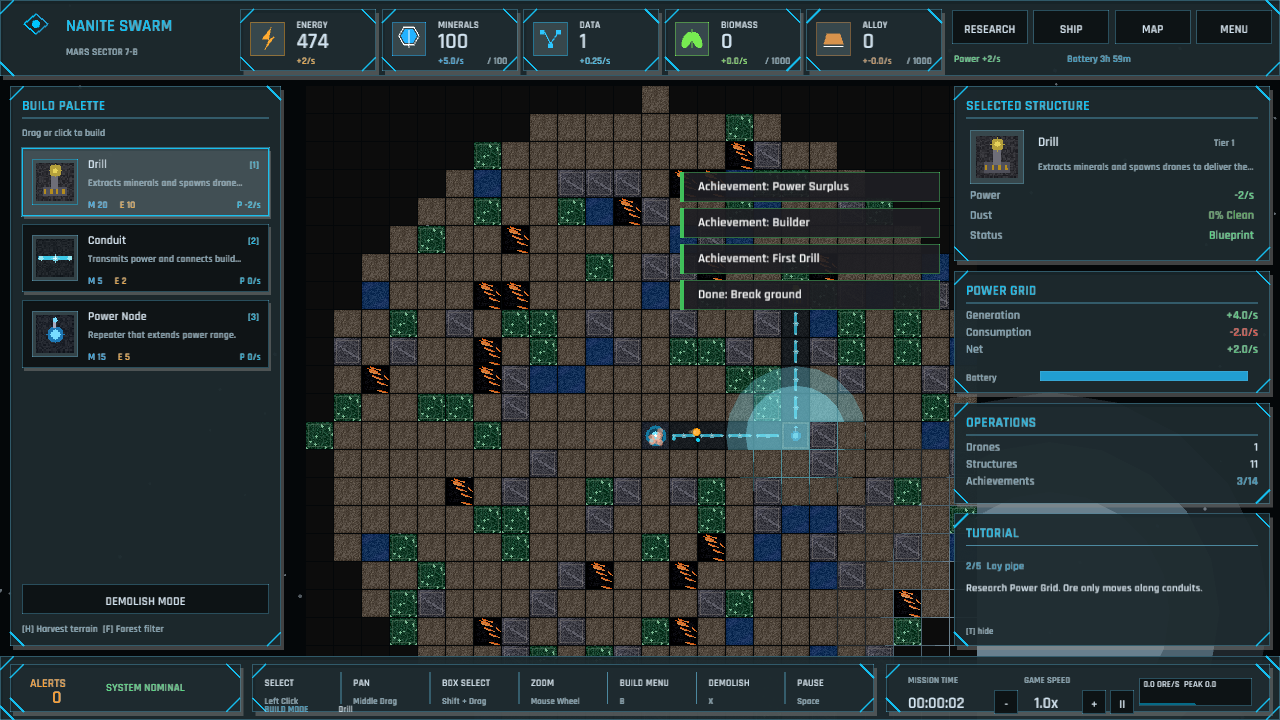
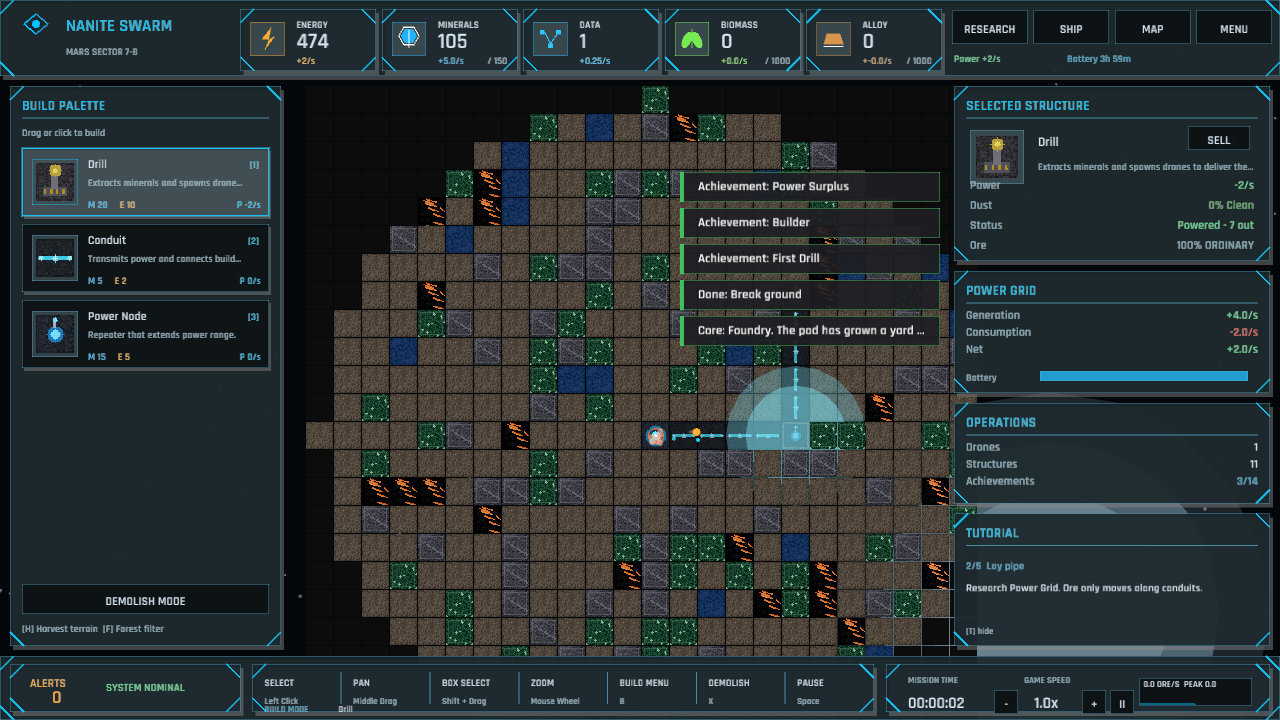
Where a drill goes finally matters (ore richness, depleting only its bonus)
Every drill cut the same rate out of any tile, so the only spatial question
was how long the run home was. Ground now carries a richness rolled from the
same seeded stream as the terrain: deposits worth up to twice ordinary ground,
lean patches worth half, and a drill cuts at whatever it is standing on.

Only the bonus depletes, and only for ore actually cut - a pad that was full
is not charged for what the drill could not take. A deposit is worn down to
ordinary ground and stops there, which keeps prospecting worth doing without
turning an idle game into a relocation treadmill; the reasoning is written
into gdd.md §3.

The inspector grew a fourth row so the ground can be read before it is built
on. The map still cannot show it, which is the next thing this needs.

diff --git a/src/state/logistics.rs b/src/state/logistics.rs
@@ -310,20 +310,40 @@ impl PlanetState {
     fn update_drills(&mut self, delta_time: f32) {
         let rate = self.drill_output_rate();
         let ceiling = self.drones.drone_capacity * PAD_LOADS;
+        let depletion = self.config.ore.depletion_per_unit.max(0.0);
 
         for drill_pos in self.grid.find_buildings(BuildingType::Drill) {
-            let Some(building) = self.grid.get(drill_pos).and_then(|t| t.building.as_ref()) else {
+            let Some(tile) = self.grid.get(drill_pos) else {
+                continue;
+            };
+            let Some(building) = tile.building.as_ref() else {
                 continue;
             };
             if !building.powered || building.is_dust_stalled() {
                 continue;
             }
+            // What the ground under this particular drill is worth. Placement
+            // is a spatial decision, not only a question of run length.
+            let richness = tile.ore_richness;
             let efficiency = building.dust_efficiency();
+            let cut = rate * richness * efficiency * delta_time;
+
             let buffer = self
                 .output_buffers
                 .entry((drill_pos.x, drill_pos.y))
                 .or_insert(0.0);
-            *buffer = (*buffer + rate * efficiency * delta_time).min(ceiling);
+            let before = *buffer;
+            *buffer = (before + cut).min(ceiling);
+
+            // Only the bonus is spent: a deposit is cut down towards ordinary
+            // ground and stops there (gdd.md §3). What the pad could not hold
+            // was never cut, so it is not charged for either.
+            if richness > 1.0 && depletion > 0.0 {
+                let taken = *buffer - before;
+                if let Some(tile) = self.grid.get_mut(drill_pos) {
+                    tile.ore_richness = (richness - taken * depletion).max(1.0);
+                }
+            }
         }
     }
 
@@ -534,10 +554,90 @@ mod tests {
         (state.resources.minerals / state.drones.drone_capacity).round() as u32
     }
 
+    /// Ore banked, rather than whole loads. Rounding to loads is too coarse to
+    /// see a difference that is a few seconds of drone speed.
+    fn ore_delivered(state: &mut PlanetState, seconds: f32) -> u32 {
+        state.resources.minerals = 0.0;
+        state.config.resources.base_mineral_cap = 100_000.0;
+
+        let ticks = (seconds / crate::state::TICK_SECONDS) as u32;
+        for _ in 0..ticks {
+            state.step(crate::state::TICK_SECONDS, false);
+        }
+        state.resources.minerals.round() as u32
+    }
+
     /// Snapshot of the whole harvest loop at the fixed timestep: drill cycle,
     /// dispatch, travel out over the network, delivery, and the walk home. If
     /// the tick length, drone speed, drill cycle or route cost changes, this
     /// number moves.
+    #[test]
+    fn a_drill_on_a_deposit_cuts_more_than_one_on_ordinary_ground() {
+        /// Ore banked in ten seconds by a drill on ground of this richness.
+        fn banked(richness: f32) -> u32 {
+            let (mut state, _core, drill) = state_with_run(0);
+            state.grid.get_mut(drill).unwrap().ore_richness = richness;
+            ore_delivered(&mut state, 10.0)
+        }
+
+        let ordinary = banked(1.0);
+        assert!(banked(2.0) > ordinary, "a deposit was worth nothing");
+        assert!(banked(0.5) < ordinary, "lean ground was worth the same");
+    }
+
+    #[test]
+    fn a_deposit_is_cut_down_towards_ordinary_ground_and_stops_there() {
+        let (mut state, _core, drill) = state_with_run(0);
+        state.grid.get_mut(drill).unwrap().ore_richness = 2.0;
+        // A depletion rate that would run well past the floor if it could.
+        state.config.ore.depletion_per_unit = 0.05;
+
+        ore_delivered(&mut state, 120.0);
+
+        let left = state.grid.get(drill).unwrap().ore_richness;
+        assert_eq!(
+            left, 1.0,
+            "the deposit stopped somewhere other than ordinary ground"
+        );
+    }
+
+    #[test]
+    fn ordinary_ground_is_not_worn_out_by_being_worked() {
+        let (mut state, _core, drill) = state_with_run(0);
+        state.grid.get_mut(drill).unwrap().ore_richness = 1.0;
+        state.config.ore.depletion_per_unit = 0.05;
+
+        ore_delivered(&mut state, 120.0);
+
+        assert_eq!(state.grid.get(drill).unwrap().ore_richness, 1.0);
+    }
+
+    #[test]
+    fn a_pad_that_is_already_full_is_not_charged_for_ore_it_never_took() {
+        let (mut state, _core, drill) = state_with_run(0);
+        state.grid.get_mut(drill).unwrap().ore_richness = 2.0;
+        state.config.ore.depletion_per_unit = 0.01;
+        // Only the drills run, so nothing ever leaves the pad: it fills and
+        // the drill has to stop being charged for ore it cannot cut.
+        for _ in 0..600 {
+            state.update_drills(crate::state::TICK_SECONDS);
+        }
+
+        let left = state.grid.get(drill).unwrap().ore_richness;
+        let pad = state
+            .output_buffers
+            .get(&(drill.x, drill.y))
+            .copied()
+            .unwrap_or(0.0);
+        let taken = (2.0 - left) / 0.01;
+        assert!(
+            (taken - pad).abs() < 0.5,
+            "charged for {} ore with {} on the pad",
+            taken,
+            pad
+        );
+    }
+
     #[test]
     fn partial_loads_lift_what_a_long_run_actually_delivers() {
         /// Ore banked over a fixed stretch, with partial dispatch on or off.
@@ -869,15 +969,22 @@ mod tests {
     /// Two drills sharing one run, measured over a minute at a given tile
     /// capacity.
     fn shared_trunk_throughput(capacity: f32) -> u32 {
-        let (mut state, _core, drill) = state_with_run(4);
+        let (mut state, _core, drill) = state_with_run(8);
         state.config.buildings.conduit_capacity = capacity;
+        // Ordinary ground under both drills, so this measures the trunk and
+        // not which of them happened to land on a deposit.
+        for pos in [drill, GridPos::new(drill.x - 1, drill.y - 1)] {
+            if let Some(tile) = state.grid.get_mut(pos) {
+                tile.ore_richness = 1.0;
+            }
+        }
         // A second drill hanging off the same run.
         let spur = GridPos::new(drill.x - 1, drill.y - 1);
         state.grid.get_mut(spur).unwrap().terrain = crate::engine::TerrainType::Empty;
         state.select_building(BuildingType::Drill);
         assert!(state.try_place_building(spur));
         state.grid.update_power_grid();
-        loads_delivered(&mut state, 60.0)
+        ore_delivered(&mut state, 60.0)
     }
 
     #[test]

diff --git a/src/engine/grid_engine/grid.rs b/src/engine/grid_engine/grid.rs
@@ -13,6 +13,9 @@ use super::tile::Tile;
 
 type TerrainRng = SeededRng;
 
+use crate::data::OreConfig;
+use macroquad_toolkit::math::lerp;
+
 /// The game grid containing all tiles
 #[derive(Debug, Clone, Serialize, Deserialize)]
 pub struct Grid {
@@ -40,6 +43,17 @@ impl Grid {
     /// over is open ground, which is what makes one world a forest and another
     /// a field of holes.
     pub fn new_with_terrain(width: u32, height: u32, seed: u64, weights: &TerrainWeights) -> Self {
+        Self::generate(width, height, seed, weights, &OreConfig::default())
+    }
+
+    /// The same, with the ore spread declared rather than assumed.
+    pub fn generate(
+        width: u32,
+        height: u32,
+        seed: u64,
+        weights: &TerrainWeights,
+        ore: &OreConfig,
+    ) -> Self {
         let mut rng = TerrainRng::new(seed);
         let size = (width * height) as usize;
         let mut tiles = Vec::with_capacity(size);
@@ -78,6 +92,17 @@ impl Grid {
             // Reveal tiles near center
             let revealed = dist_from_center <= 4;
 
+            // Ore is rolled for every tile, from the same seeded stream as
+            // the terrain, so a world's ground is as reproducible as its shape.
+            let ore_roll = rng.next_f32();
+            let ore_richness = if ore_roll < ore.rich_chance {
+                lerp(ore.rich_min, ore.rich_max, rng.next_f32())
+            } else if ore_roll < ore.rich_chance + ore.lean_chance {
+                lerp(ore.lean_min, ore.lean_max, rng.next_f32())
+            } else {
+                1.0
+            };
+
             tiles.push(Tile {
                 terrain,
                 building: None,
@@ -86,6 +111,7 @@ impl Grid {
                 mountain_harvested: false,
                 forest_cleared: false,
                 biomass_amount: 0.0,
+                ore_richness,
             });
         }
 

diff --git a/src/screens/planetary_view/hud/inspector_panel.rs b/src/screens/planetary_view/hud/inspector_panel.rs
@@ -108,7 +108,9 @@ pub(super) fn draw(
         );
         draw_ui_text(&description, info_x, header_y + 40.0, 10.0, dim);
         let output = format_power_delta(building_type.power_delta());
-        let row_base = inspector_y + inspector_h - 62.0;
+        // Four rows now. They start higher than they did, but not so high as
+        // to run into the description above them.
+        let row_base = inspector_y + inspector_h - 72.0;
         draw_status_row(
             theme,
             right_x + 16.0,
@@ -128,6 +130,22 @@ pub(super) fn draw(
             &format!("{:.0}% {}", tile_dust, dust_label),
             dust_color,
         );
+
+        // What the ground itself is worth. Without this a deposit is invisible
+        // and drill placement is guesswork.
+        if let Some(tile) = display_pos.and_then(|pos| state.grid.get(pos)) {
+            let (ore_label, ore_color) = ore_status(tile.ore_richness, colors);
+            draw_status_row(
+                theme,
+                right_x + 16.0,
+                row_base + 60.0,
+                right_w - 32.0,
+                "Ore",
+                &format!("{:.0}% {}", tile.ore_richness * 100.0, ore_label),
+                ore_color,
+            );
+        }
+
         let mut status_text = if tile_building.is_some() {
             if tile_powered {
                 "Powered".to_string()
@@ -225,5 +243,16 @@ pub(super) fn draw(
                 dim,
             );
         }
+    }
+}
+
+/// How the ground under a tile reads: a deposit, ordinary, or poor.
+fn ore_status(richness: f32, colors: &PanelColors) -> (&'static str, Color) {
+    if richness > 1.05 {
+        ("DEPOSIT", colors.success)
+    } else if richness < 0.95 {
+        ("LEAN", colors.warning)
+    } else {
+        ("ORDINARY", colors.dim)
     }
 }

diff --git a/src/data/game_config.rs b/src/data/game_config.rs
@@ -10,6 +10,8 @@ pub struct GameConfig {
     pub buildings: BuildingConfig,
     #[serde(default = "CollapseConfig::default")]
     pub collapse: CollapseConfig,
+    #[serde(default = "OreConfig::default")]
+    pub ore: OreConfig,
 }
 
 #[derive(Debug, Clone, Serialize, Deserialize)]
@@ -67,6 +69,22 @@ pub struct CollapseConfig {
     pub notice_seconds: f32,
 }
 
+/// How ore is spread through the ground, and what happens to a rich patch as
+/// it is cut. Only the bonus above ordinary ground depletes (gdd.md §3).
+#[derive(Debug, Clone, Serialize, Deserialize)]
+pub struct OreConfig {
+    /// Share of ground that is a rich deposit, and how rich it can be.
+    pub rich_chance: f32,
+    pub rich_min: f32,
+    pub rich_max: f32,
+    /// Share that is poorer than ordinary, and how poor.
+    pub lean_chance: f32,
+    pub lean_min: f32,
+    pub lean_max: f32,
+    /// Richness lost per unit of ore cut out of the tile.
+    pub depletion_per_unit: f32,
+}
+
 #[derive(Debug, Clone, Serialize, Deserialize)]
 pub struct BuildingConfig {
     pub core_power_consumption: f32,
@@ -120,6 +138,21 @@ impl Default for GameConfig {
                 partial_load_min_share: 0.5,
             },
             collapse: CollapseConfig::default(),
+            ore: OreConfig::default(),
+        }
+    }
+}
+
+impl Default for OreConfig {
+    fn default() -> Self {
+        Self {
+            rich_chance: 0.18,
+            rich_min: 1.4,
+            rich_max: 2.2,
+            lean_chance: 0.22,
+            lean_min: 0.5,
+            lean_max: 0.8,
+            depletion_per_unit: 0.0004,
         }
     }
 }

diff --git a/src/engine/grid_engine/tile.rs b/src/engine/grid_engine/tile.rs
@@ -18,6 +18,17 @@ pub struct Tile {
     pub forest_cleared: bool, // Permanent pollution penalty
     #[serde(default)]
     pub biomass_amount: f32,
+    /// How much ore this ground gives compared to ordinary ground. Above one
+    /// is a deposit and is cut down towards one as it is worked; one and below
+    /// never change.
+    #[serde(default = "ordinary_ground")]
+    pub ore_richness: f32,
+}
+
+/// What a tile is worth with no deposit on it. Also the value an older save
+/// gets, which is why it is a named default rather than zero.
+fn ordinary_ground() -> f32 {
+    1.0
 }
 
 impl Default for Tile {
@@ -30,6 +41,7 @@ impl Default for Tile {
             mountain_harvested: false,
             forest_cleared: false,
             biomass_amount: 0.0,
+            ore_richness: ordinary_ground(),
         }
     }
 }

diff --git a/src/main.rs b/src/main.rs
@@ -523,6 +523,14 @@ impl Game {
             "logistics" => {
                 self.phase = GamePhase::Playing;
                 self.seed_logistics_scene();
+                // Select the drill's own tile, so the inspector is reading
+                // ground rather than a palette choice.
+                let planet = self.campaign.current_mut();
+                let drill = planet
+                    .grid
+                    .find_buildings(engine::BuildingType::Drill)
+                    .pop();
+                planet.selected_tile = drill;
             }
             // A Core that has grown past its landing pod.
             "core_stage" => {

diff --git a/src/state/game_state.rs b/src/state/game_state.rs
@@ -233,7 +233,7 @@ impl PlanetState {
     pub fn new(planet_index: usize, seed: u64, config: GameConfig) -> Self {
         let def = crate::data::game_data().planet(planet_index);
         let (name, width, height) = (def.name.as_str(), def.width, def.height);
-        let mut grid = Grid::new_with_terrain(width, height, seed, &def.terrain);
+        let mut grid = Grid::generate(width, height, seed, &def.terrain, &config.ore);
         grid.initialize_forest_biomass(config.resources.forest_biomass);
 
         // Place Core at center

diff --git a/TODO.md b/TODO.md
@@ -30,7 +30,7 @@ A network tile passes `conduit_capacity` drones at full speed; past that they sh
 - Routing weights tiles by traffic (`traffic_cost`, `congestion_route_penalty` in `game_config.json`), so a saturated trunk is worth going around and a second parallel run finally earns its minerals. Congestion makes a tile expensive, never impassable. What it does not do is look ahead: each drone routes against the traffic that exists *now*, so a wave dispatched in the same tick all picks the same clear run and creates the jam it was avoiding.
 - Re-validating every in-flight drone's remaining path each tick is O(drones x path length), and routing is now A* over the network rather than a plain BFS; add a network revision counter and re-check only when the grid changes if either shows up in profiling.
 - A cut run is outlined in red on the map for as long as anything is stalled: every piece of network with no way back to the Core, plus the piece that stopped carrying traffic and caused it, so a conduit choked with dust names itself. It stays quiet while nothing is stalled, because a run being laid outward is disconnected on purpose. It does not yet say the same thing for a *producer* that is standing on open ground with no pipe at all.
-- Add ore deposits with richness and depletion — every drill cuts the same `drill_output_rate` from any tile, so placement is spatially meaningless.
+- Ground carries an ore richness rolled at generation (`ore` in `game_config.json`): a drill cuts at its tile's rate, so where one goes is a spatial decision. Only the bonus above ordinary ground depletes, and only for ore actually cut (rationale in `gdd.md` §3). The inspector reads the ground out. What the *map* does not do is show it — a deposit is invisible until you point at it, so prospecting means sweeping the cursor over the whole world.
 - Bridges are real network pieces: a building that stands on void or water and nowhere else, transmitting power and carrying drones like a conduit, instead of a tile flag that gave a conduit permission to exist. The GDD's Venus gaps are now a routing problem. Two things remain — a bridge on a void tile reads as barely more than the void it spans, and nothing hints that a gap *can* be bridged.
 
 ## Interplanetary meta-layer

diff --git a/gdd.md b/gdd.md
@@ -79,6 +79,22 @@ The map is composed of tiles with distinct properties. The player must choose be
 - **Option A:** Consume for Biomass/Carbon.
 - **Option B:** Keep as a buffer against pollution/heat mechanics.
 
+#### Decision: a deposit is spent down to ordinary ground, never past it (2026-08-02)
+
+Ground carries an ore richness, so where a drill goes is a spatial decision and
+not just a question of how long the run home is. The open question was what
+depletion does at the bottom.
+
+**Only the bonus depletes.** A rich deposit is cut down towards ordinary ground
+and stops there; ordinary and lean ground never change at all. A bonanza is a
+strong opening that fades, not a resource that runs out.
+
+The alternative — deposits emptying to nothing — turns an idle game into a
+relocation treadmill and contradicts the pitch's promise that you never lose
+progress. This way a mature base keeps every drill it built working at the rate
+it was always going to settle at, and the reward for prospecting is *earlier*
+output rather than permanently better output.
+
 ### The Synapse (Research)
 
 Research is not a list; it is a visual representation of the AI's growing intelligence.
